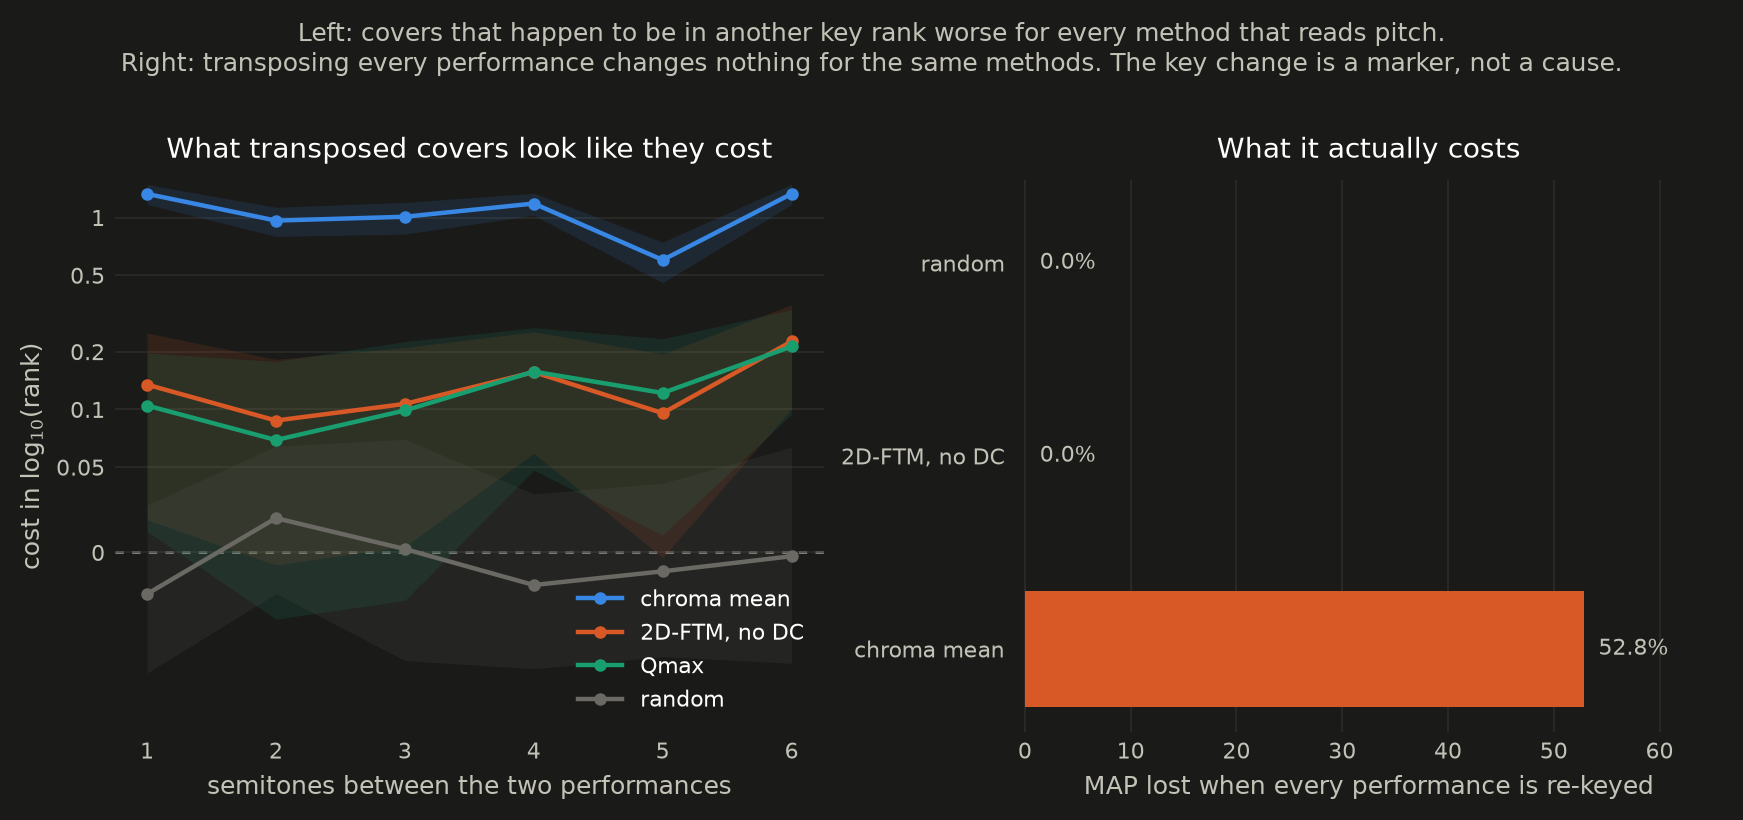
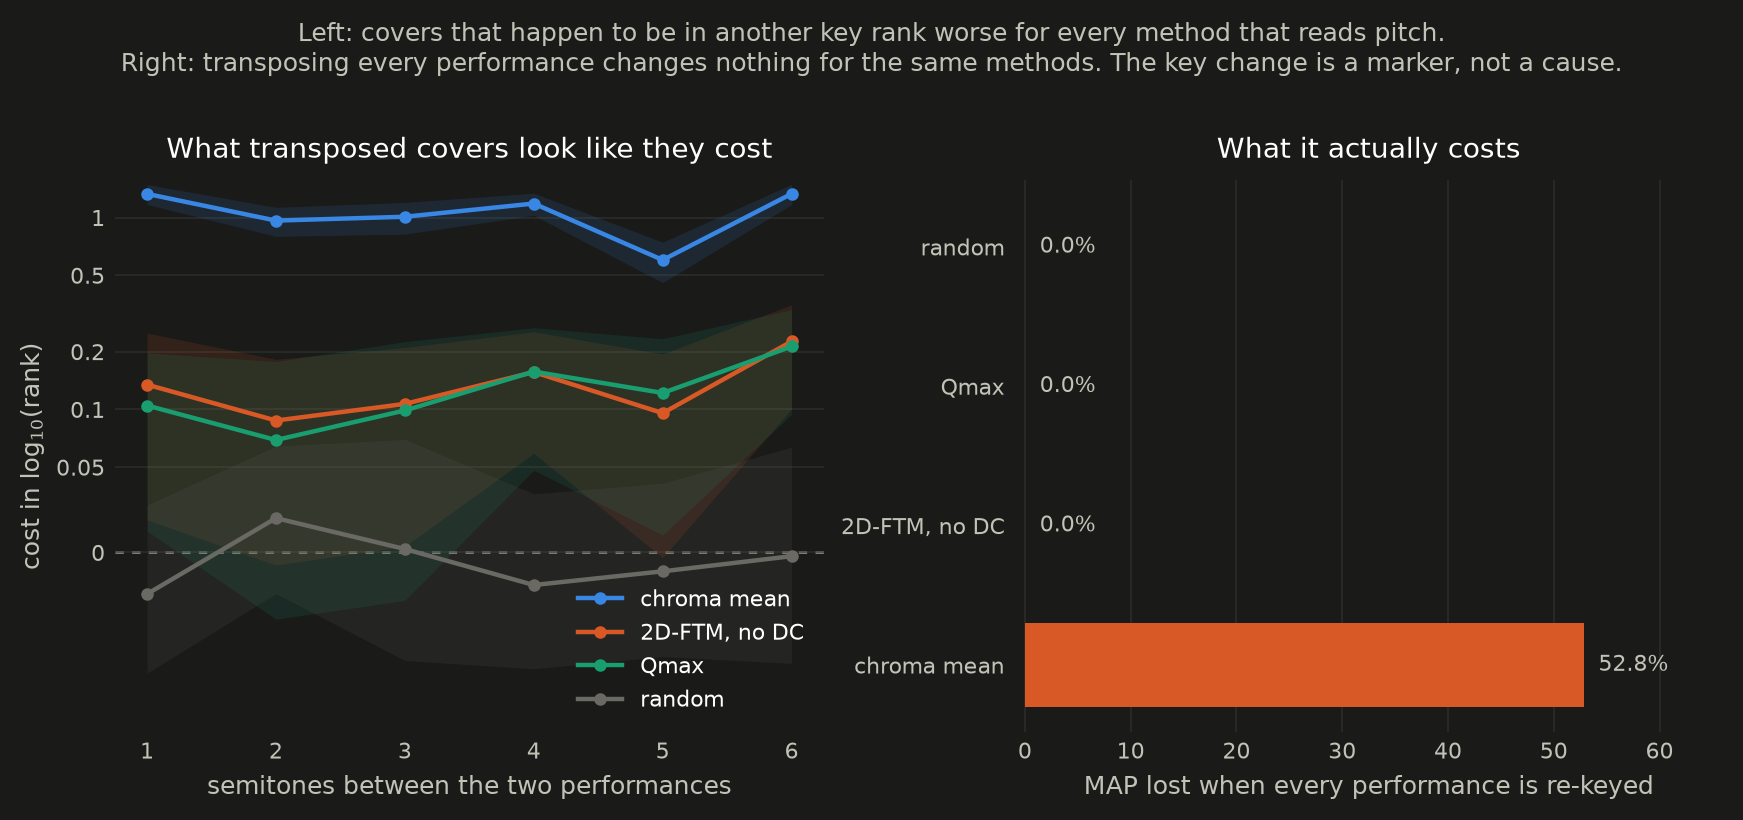
Fix an embedding that depended on which tracks shared its batch
The factor analysis gave the CNN a duration_ratio coefficient of +0.278, against
about +0.01 for every other real method and second only to the duration baseline
itself. A method describing harmony should not care that much about length, so it
was worth asking why.

It wasn't length. embed() pads a batch to its longest member and forward()
mean-pooled over time including the padding, so an embedding depended on which
other performances happened to share its batch -- the same track embedded alone
and beside a longer one had a cosine of 0.68 with itself.

Zeros are not neutral here. Batch norm shifts them, the ReLU keeps what survives,
and it leaks back through the convolutions into the last real column, so masking
the mean was not enough on its own: the max pool needed masking too, the valid
boundary had to come from the length rather than the padded width, and batches
have to be grouped by padded width so that width is a property of the performance
rather than of its neighbours. Any batch size now agrees to 3e-05, which is
float32 kernel choice rather than structure.

Training is untouched -- its crops are all one length, so lengths=None takes the
same path the checkpoint was fit with. This is inference only, no retraining.

learned_test MAP goes 0.2926 -> 0.2882 and MR1 27.1 -> 25.6. MAP fell because the
padding had been leaking a length cue, and covers of one work do run to similar
lengths, so the bug was quietly helping. duration_ratio fell from +0.278 to +0.083
[…]

diff --git a/src/csr/models.py b/src/csr/models.py
@@ -70,12 +70,47 @@ class ChromaCNN(nn.Module):
             ]
         self.features = nn.Sequential(*blocks)
         self.project = nn.Linear(channels[-1] * 2, dim)
+        #: How much the time axis shrinks, one halving per block. Needed to turn a
+        #: length in input frames into a length in feature columns.
+        self.time_stride = 2 ** (len(channels) - 1)
 
-    def forward(self, x: torch.Tensor) -> torch.Tensor:
+    def forward(self, x: torch.Tensor, lengths: torch.Tensor | None = None):
+        """`lengths` is each item's real width in frames, before any padding.
+
+        Batching performances of different lengths means padding the short ones,
+        and pooling over that padding makes an embedding depend on which other
+        tracks happened to share its batch. Both pools have to be masked, not just
+        the mean: the padded region is zeros, but batch norm shifts them and the
+        ReLU keeps what survives, so a padded column can out-rank a real one.
+
+        The boundary is computed from `lengths` alone, never from the padded width.
+        This also needs the caller to pad to a multiple of `time_stride`: each of
+        the five poolings floors, so an unaligned width discards a boundary element
+        at a different place and the final column of a performance comes out
+        different depending on how wide its batch was. `embed` does that padding.
+
+        Training passes None because its crops are all one length, so the mask
+        would be all ones and this is exactly the pooling the checkpoint was fit
+        with.
+        """
         h = self.features(x)
         h = h.amax(dim=2)  # over pitch: equivariance becomes invariance
-        pooled = torch.cat([h.amax(dim=2), h.mean(dim=2)], dim=1)  # over time
-        return F.normalize(self.project(pooled), dim=1)
+
+        if lengths is None:
+            return F.normalize(
+                self.project(torch.cat([h.amax(dim=2), h.mean(dim=2)], dim=1)), dim=1
+            )
+
+        valid = torch.div(
+            lengths + self.time_stride - 1, self.time_stride, rounding_mode="floor"
+        ).clamp(1, h.shape[2])
+        keep = (
+            torch.arange(h.shape[2], device=h.device)[None, :] < valid[:, None]
+        )[:, None, :]
+
+        peak = h.masked_fill(~keep, float("-inf")).amax(dim=2)
+        average = (h * keep).sum(dim=2) / valid[:, None]
+        return F.normalize(self.project(torch.cat([peak, average], dim=1)), dim=1)
 
 
 class CosineHead(nn.Module):
@@ -130,20 +165,47 @@ class Crops(Dataset):
 
 @torch.no_grad()
 def embed(model: ChromaCNN, perf_ids, chroma, device="cuda", batch=16) -> np.ndarray:
-    """Embed full-length performances, no cropping. -> (n, dim) float32."""
+    """Embed full-length performances, no cropping. -> (n, dim) float32.
+
+    Batches are grouped so that every member pads to the same width, and that width
+    depends only on the member's own length.
+
+    That grouping is load-bearing rather than an optimisation. Nothing in this
+    network mixes items -- convolution, eval-mode batch norm and pooling are all
+    per-item -- so the *only* way a neighbour can change an embedding is by forcing
+    a wider pad. And a wider pad does change it: zeros are not neutral once batch
+    norm shifts them, the ReLU keeps what survives, and the result leaks back
+    through the convolutions into the last real column. Before this, the same
+    performance embedded two different ways depending on who it was batched with,
+    at a cosine of 0.68, and the pair analysis saw it as the network being unusually
+    sensitive to a difference in length.
+    """
     model.eval()
-    out = []
-    for start in range(0, len(perf_ids), batch):
-        group = [
-            np.asarray(chroma[p], dtype=np.float32)
-            for p in perf_ids[start : start + batch]
-        ]
-        width = max(len(c) for c in group)
-        padded = np.zeros((len(group), 1, 12, width), dtype=np.float32)
-        for i, c in enumerate(group):
-            padded[i, 0, :, : len(c)] = c.T
-        out.append(model(torch.from_numpy(padded).to(device)).cpu().numpy())
-    return np.concatenate(out)
+    stride = model.time_stride
+
+    buckets: dict[int, list[int]] = {}
+    for index, pid in enumerate(perf_ids):
+        buckets.setdefault(-(-len(chroma[pid]) // stride) * stride, []).append(index)
+
+    vectors, order = [], []
+    for width, members in buckets.items():
+        for start in range(0, len(members), batch):
+            chunk = members[start : start + batch]
+            group = [np.asarray(chroma[perf_ids[i]], dtype=np.float32) for i in chunk]
+            padded = np.zeros((len(group), 1, 12, width), dtype=np.float32)
+            for i, c in enumerate(group):
+                padded[i, 0, :, : len(c)] = c.T
+            lengths = torch.tensor(
+                [len(c) for c in group], dtype=torch.long, device=device
+            )
+            vectors.append(
+                model(torch.from_numpy(padded).to(device), lengths).cpu().numpy()
+            )
+            order.extend(chunk)
+
+    out = np.empty_like(np.concatenate(vectors))
+    out[np.asarray(order)] = np.concatenate(vectors)
+    return out
 
 
 def train(

diff --git a/scripts/analyze.py b/scripts/analyze.py
@@ -27,6 +27,7 @@ sys.path.insert(0, str(Path(__file__).resolve().parents[1] / "src"))
 
 from csr.analysis import factors, regress, stats  # noqa: E402
 from csr.data import cache, metadata  # noqa: E402
+from csr.data.datacos import query_mask  # noqa: E402
 from csr.eval.batch import evaluate_chunked, evaluate_chunked_pairs  # noqa: E402
 from csr.methods import build  # noqa: E402
 from csr.run import DISTANCE_DIR, manifest, select_collection  # noqa: E402
@@ -43,6 +44,11 @@ CHROMA_CACHE = "data/interim/chroma_native"
 #: before calling an invariant method's null a real null. Pre-registered here rather
 #: than chosen once the coefficients are on screen.
 EQUIVALENCE_FRACTION = 0.25
+
+#: Fewest cliques a factor has to vary across before its coefficient is reported.
+#: Below this the clustered standard error is being asked for more than a handful
+#: of independent observations can give.
+MIN_FACTOR_CLIQUES = 5
 
 
 def distances_for(name: str, config: dict, collection, chroma):
@@ -96,7 +102,8 @@ def pairs_for(name: str, config: dict, collection, chroma) -> np.ndarray:
 
 
 def queries_of(collection) -> np.ndarray:
-    return np.flatnonzero(collection["clique_id"].duplicated(keep=False).to_numpy())
+    """Positional rows that may be queries -- the same rule `run.run` scores by."""
+    return np.flatnonzero(query_mask(collection))
 
 
 def transposition_test(name, config, collection, chroma, seed) -> float:
@@ -140,11 +147,20 @@ def analyse_one(name, config, collection, meta, profiles, chroma, n_boot, seed):
     X, names = factors.design_matrix(model_frame)
     queries = model_frame["query_id"].to_numpy()
 
-    # A factor with no variation inside any query cannot be estimated against a
-    # query fixed effect. On the 50-clique subsample same_artist is one: no query
-    # there has two covers by the same performer. Dropping it is right, but it is
-    # reported rather than silently absorbed.
+    # Two ways a factor can be unestimable here, both reported rather than
+    # silently absorbed. It can have no variation inside any query, which is what
+    # a query fixed effect needs. Or it can vary in too few cliques to support a
+    # standard error clustered on them: `same_artist` is true for 2 of 30,648
+    # pairs on the test split, all inside one clique, and the random control duly
+    # reported that as a significant effect on a ranking made of noise.
+    cliques = model_frame["clique_id"].to_numpy()
+    codes = np.unique(cliques, return_inverse=True)[1]
     keep = regress.within_variation(X, queries) > 1e-10
+    for column in np.flatnonzero(keep):
+        touched = np.unique(codes[X[:, column] != 0]).size
+        if touched < MIN_FACTOR_CLIQUES:
+            keep[column] = False
+
     unestimable = [n for n, k in zip(names, keep) if not k]
     X, names = X[:, keep], tuple(n for n, k in zip(names, keep) if k)
 
@@ -181,7 +197,7 @@ def analyse_one(name, config, collection, meta, profiles, chroma, n_boot, seed):
         "method": config["method"],
         "n_pairs": int(len(frame)),
         "n_pairs_dropped_no_year": dropped,
-        "factors_without_within_variation": unestimable,
+        "factors_not_estimable": unestimable,
         "key_label_agrees_with_chroma": agreement,
         "coefficients": {
             n: {
@@ -241,6 +257,14 @@ def main() -> int:
     chroma = cache.load(CHROMA_CACHE)
     meta_all, profiles_all = metadata.cached(frame, chroma)
 
+    earlier = ANALYSIS / f"{args.collection}.json"
+    previous = (
+        json.loads(earlier.read_text(encoding="utf-8"))["methods"]
+        if earlier.is_file()
+        else {}
+    )
+    previous = {k: v for k, v in previous.items() if "map_rekeyed" in v}
+
     entries = {}
     for name in names:
         started = time.perf_counter()
@@ -257,6 +281,11 @@ def main() -> int:
             entries[name]["map_rekeyed"] = transposition_test(
                 name, runs[name], collection, chroma, args.seed
             )
+        elif name in previous and previous[name]["map"] == entries[name]["map"]:
+            # Skipped as too expensive, but measured on an earlier run of the same
+            # matrix. Qmax takes two and a half hours to re-key; losing that to a
+            # re-run over some other method's numbers would be daft.
+            entries[name]["map_rekeyed"] = previous[name]["map_rekeyed"]
         entries[name]["seconds"] = round(time.perf_counter() - started, 1)
         print(f"  {name}: {entries[name]['n_pairs']:,} pairs "
               f"({entries[name]['seconds']}s)")

diff --git a/tests/test_models.py b/tests/test_models.py
@@ -63,6 +63,46 @@ def test_embed_pads_a_mixed_length_batch(corpus):
     assert np.isfinite(vectors).all()
 
 
+def test_an_embedding_does_not_depend_on_who_shares_its_batch(corpus):
+    """A performance must embed the same way alone and beside a longer one.
+
+    It did not. Batching pads the short members, and zeros stop being neutral the
+    moment batch norm shifts them -- the ReLU keeps what survives and the result
+    leaks back through the convolutions into the last real column. The same
+    performance came out at a cosine of 0.68 with itself, and the factor analysis
+    read that as the network being unusually sensitive to a change in length.
+
+    On CPU this is exact. The tolerance is for float32 kernel choice, not for the
+    effect this test exists to catch, which was four orders of magnitude larger.
+    """
+    _, chroma = corpus
+    model = ChromaCNN(dim=32, width=8).eval()
+    ids = ["P_0_0", "P_0_1", "P_1_0", "P_1_1"]
+    lengths = [400, 1200, 780, 2000]
+    clipped = {p: chroma[p][:n] for p, n in zip(ids, lengths)}
+
+    one_at_a_time = embed(model, ids, clipped, device="cpu", batch=1)
+    together = embed(model, ids, clipped, device="cpu", batch=4)
+    assert np.abs(one_at_a_time - together).max() < 1e-5
+
+    # And embedding a subset must not move the vectors that survive into it.
+    subset = embed(model, ids[:2], clipped, device="cpu", batch=4)
+    assert np.abs(subset - one_at_a_time[:2]).max() < 1e-5
+
+
+def test_embed_returns_vectors_in_the_order_it_was_asked_for(corpus):
+    """Bucketing by width reorders the work; it must not reorder the answer."""
+    _, chroma = corpus
+    model = ChromaCNN(dim=32, width=8).eval()
+    ids = ["P_0_0", "P_0_1", "P_1_0", "P_1_1"]
+    clipped = {p: chroma[p][:n] for p, n in zip(ids, [400, 1200, 780, 2000])}
+
+    everything = embed(model, ids, clipped, device="cpu", batch=2)
+    for position, pid in enumerate(ids):
+        alone = embed(model, [pid], clipped, device="cpu", batch=1)[0]
+        assert np.abs(everything[position] - alone).max() < 1e-5
+
+
 def test_model_can_overfit_a_tiny_batch():
     """Catches a broken training loop in seconds: 8 samples, 2 classes."""
     torch.manual_seed(0)

diff --git a/README.md b/README.md
@@ -62,7 +62,7 @@ trained network is allowed to be scored on.
 
 | method | MAP | MR1 | P@10 | ties | time |
 |---|---:|---:|---:|---:|---:|
-| learned CNN | 0.2926 | 27.1 | 0.3263 | 0.12% | 80 s |
+| learned CNN | 0.2882 | 25.6 | 0.3172 | 0.17% | 68 s |
 | 2D-FTM, no DC | 0.0901 | 83.0 | 0.1095 | 0.17% | 2 min |
 | 2D-FTM | 0.0593 | 97.3 | 0.0773 | 0.16% | 19 s |
 | duration | 0.0070 | 317.4 | 0.0046 | 22.96% | 3 s |
@@ -171,10 +171,18 @@ these metrics are decided at.
 ## The network
 
 It wins by a wide margin on the only collection it is allowed to be scored on:
-**0.2926** against 0.0901 for the best classical method on the same 4,600 items. It
+**0.2882** against 0.0901 for the best classical method on the same 4,600 items. It
 trains on 700 cliques, validates on 100 and tests on 200, split by clique so no song
 ever appears on both sides, and the saved checkpoint is the epoch with the best
 validation MAP rather than the last one.
+
+That number was 0.2926 until the factor analysis below turned up a bug in how the
+embeddings were computed — batching padded the short performances and the pooling
+averaged over the padding, so a performance embedded differently depending on which
+other tracks shared its batch. Fixing it *lowered* MAP slightly and improved MR1
+from 27.1 to 25.6, because the padding had been leaking a length cue into the
+embedding, and covers of one work do tend to run to similar lengths. The number
+below is smaller and means what it says.
 
 
 # What breaks retrieval
@@ -221,7 +229,7 @@ detect anything at all.
 | chroma mean | +1.0692 | 52.8% | 0.0959 |
 | 2D-FTM, no DC | +0.1345 | 0.0% | 0.2263 |
 | chroma mean, best key | +0.1284 | 0.0% | 0.1129 |
-| Q-max | +0.1275 | PENDING | 0.5585 |
+| Q-max | +0.1275 | 0.0% | 0.5585 |
 | 2D-FTM | +0.1031 | 0.0% | 0.1781 |
 | duration | +0.0058 | 0.0% | 0.0489 |
 | random | −0.0057 | 0.0% | 0.0294 |
@@ -235,10 +243,15 @@ identical ranking.
 
 The two columns disagree, and the disagreement is the finding.
 
-2D-FTM loses **0.0%** when the keys are scrambled. Its invariance is exact, and the
-sensitive control losing half its MAP on the same test proves the measurement can
-see a key effect when one exists. Yet covers that *happen* to be in another key
-still rank about 30% further down for it.
+2D-FTM does not lose 0.0% in the sense of rounding to it. Its MAP after re-keying is
+**bit-identical** — a delta of exactly `0.00e+00` — and so is Q-max's to within
+`1.9e-06`, which is its per-pair transposition search occasionally breaking a tie
+the other way. The invariance is not approximately real, it is arithmetic. And the
+sensitive control losing half its MAP on the very same test proves the measurement
+can see a key effect when there is one.
+
+Yet covers that *happen* to be in another key still rank about 35% further down for
+both — 10^0.1345.
 
 Both things are true because a key change does not cost these methods anything — it
 marks a cover that was reinterpreted more freely in every other way too, including
@@ -299,7 +312,47 @@ That fits: it is the method that insists on matching an actual sequence of harmo
 so rewriting them hurts it more than it hurts a method comparing bulk texture.
 
 `random` is flat everywhere, which is the null control this table needs to be worth
-reading at all.
+reading at all. It earned its keep twice. `same_artist` — whether both recordings
+are by the same performer — showed up as a *significant* predictor of a ranking made
+of pure noise, which is impossible. It is true for **2 of 30,648 pairs** on the test
+split, all inside one clique, and a standard error clustered on cliques cannot be
+asked for more than one clique's worth of evidence. Factors that vary across fewer
+than five cliques are now dropped and listed rather than reported.
+
+## The network, and the bug this analysis found
+
+The learned CNN is the only method scored on the held-out split, so it gets its own
+run of the same machinery. Two things came out of it.
+
+**It is the only method whose key effect is null observationally as well as
+interventionally.** All six of its key-shift coefficients have intervals covering
+zero (p between 0.07 and 0.51), where 2D-FTM's are firmly positive. It is also by
+far the most accurate method on that split. Both fit the same explanation: the
+observational key effect is really a proxy for *how badly a method handles a freely
+reinterpreted cover*, and the network handles those best, so the proxy has least to
+bite on.
+
+**Its length coefficient was an artifact, and finding that fixed a real bug.** The
+first run gave the CNN a `duration_ratio` coefficient of **+0.278** — nothing like
+the ~0.01 of every other real method, and second only to the `duration` baseline
+itself. A method whose embedding is supposed to describe harmony should not care
+that much about length.
+
+It didn't. `embed` pads a batch to its longest member and the network mean-pools over
+time, padding included, so an embedding depended on which other tracks shared its
+batch. The same performance embedded alone and beside a longer one had a cosine
+similarity of **0.68** with itself. Zeros are not neutral: batch norm shifts them,
+the ReLU keeps what survives, and it leaks back through the convolutions into the
+last real column.
+
+Masking both pools and grouping batches by padded width fixed it — same performance,
+any batch, now agrees to 3e-05, which is float32 kernel choice rather than structure.
+The coefficient fell from **+0.278 to +0.083**, and `year_gap` fell with it, since
+length had been standing in for era. `test_models.py` now asserts the property.
+
+This is the argument for the whole milestone in one example. The bug was invisible to
+MAP — it *raised* MAP, by smuggling in a length cue that correlates with the right
+answer — and only showed up as a coefficient that made no sense for the architecture.
 
 ## What Da-TACOS cannot answer
 
